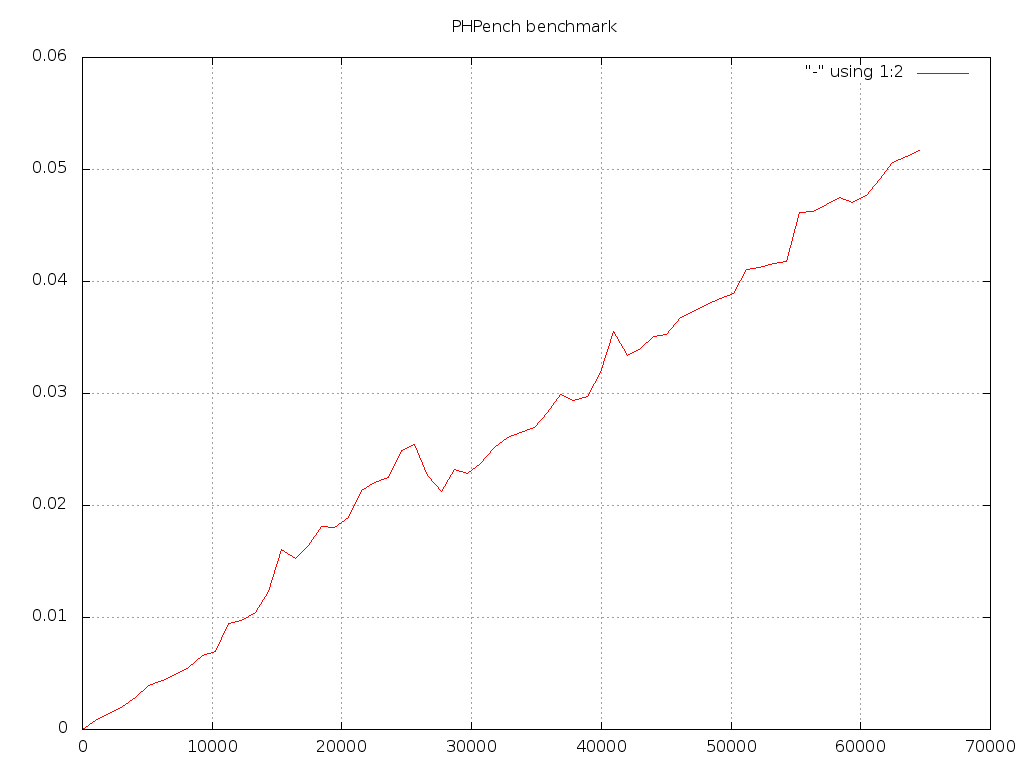
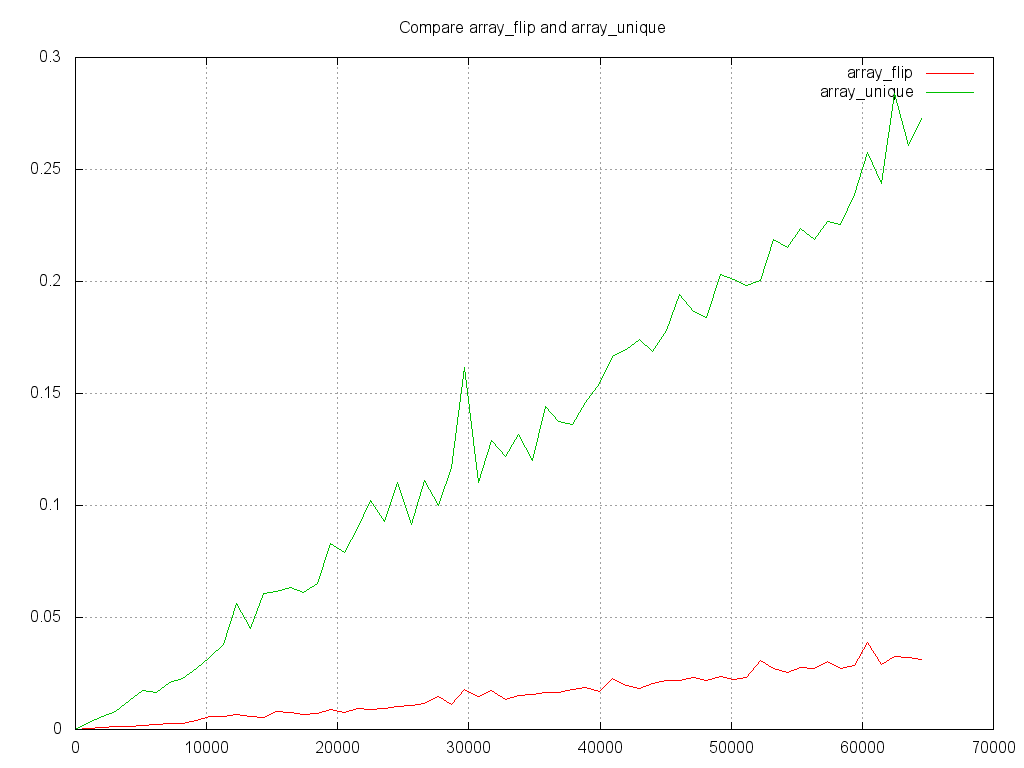
Support comparing different implementations #5

diff --git a/src/mre/PHPench.php b/src/mre/PHPench.php
@@ -7,17 +7,23 @@ use PHP_Timer;
 
 class PHPench
 {
-  public function __construct() {
+  private $plotIndex = -1;
+
+  public function __construct($title = 'untitled') {
     $this->plot = new GnuPlot;
     $this->plot->reset();
-    $this->plot->setGraphTitle('PHPench benchmark');
+    $this->plot->setGraphTitle($title);
     #$this->plot->setTitle(0, 'The moving sinus');
     #$this->plot->setTitle(1, 'The moving cosinus');
   }
 
-  public function plot($benchFunction, $benchRange, $keepAlive=False) {
+  public function plot($benchFunction, $benchRange, $title, $keepAlive=False) {
+    $this->plotIndex++;
+
+    $this->plot->setTitle($this->plotIndex, $title);
+
     foreach($benchRange as $i) {
-      $this->bench($benchFunction, $i);
+      $this->bench($benchFunction, $i, $this->plotIndex);
     }
 
     if ($keepAlive) {
@@ -33,11 +39,11 @@ class PHPench
                ->writePng($filename);
   }
 
-  protected function bench($benchFunction, $i) {
+  protected function bench($benchFunction, $i, $plotIndex) {
     PHP_Timer::start();
     $benchFunction($i);
     $time = PHP_Timer::stop();
-    $this->plot->push($i, $time);
+    $this->plot->push($i, $time, $plotIndex);
     $this->plot->refresh();
   }
 }

diff --git a/example.php b/example.php
@@ -2,23 +2,33 @@
 
 require_once __DIR__.'/vendor/autoload.php';
 
+// setup our test data
+function createArray($arrSize) {
+  $test=array();
+  for($i=1; $i<$arrSize; $i++) {
+      $test[$i]= $arrSize % $i;
+  }
+  return $test;
+}
+
 /**
  * This is the function that we want to benchmark
  */
-$benchFunction = function($arrSize) {
-  // Setup
-  $test=array();
-  for($i=0; $i<$arrSize; $i++) {
-    $test[]=rand(0,100);
-  }
-  array_flip($test);
+$benchFunction1 = function($arrSize) {
+  $test = createArray($arrSize);
+  $test = array_flip(array_flip($test));
+};
+$benchFunction2 = function($arrSize) {
+  $test = createArray($arrSize);
+  $test = array_unique($test);
 };
 
 // Create a new benchmark instance
-$phpench = new mre\PHPench();
+$phpench = new mre\PHPench('Compare array_flip and array_unique');
 
 // Run the benchmark and plot the results in realtime.
 // With the second parameter you can specify
 // the start, end and step for each call
-$phpench->plot($benchFunction, range(1,pow(2,16), 1024));
+$phpench->plot($benchFunction1, range(1,pow(2,16), 1024), 'array_flip');
+$phpench->plot($benchFunction2, range(1,pow(2,16), 1024), 'array_unique');
 $phpench->save('test.png', 1024, 768);
